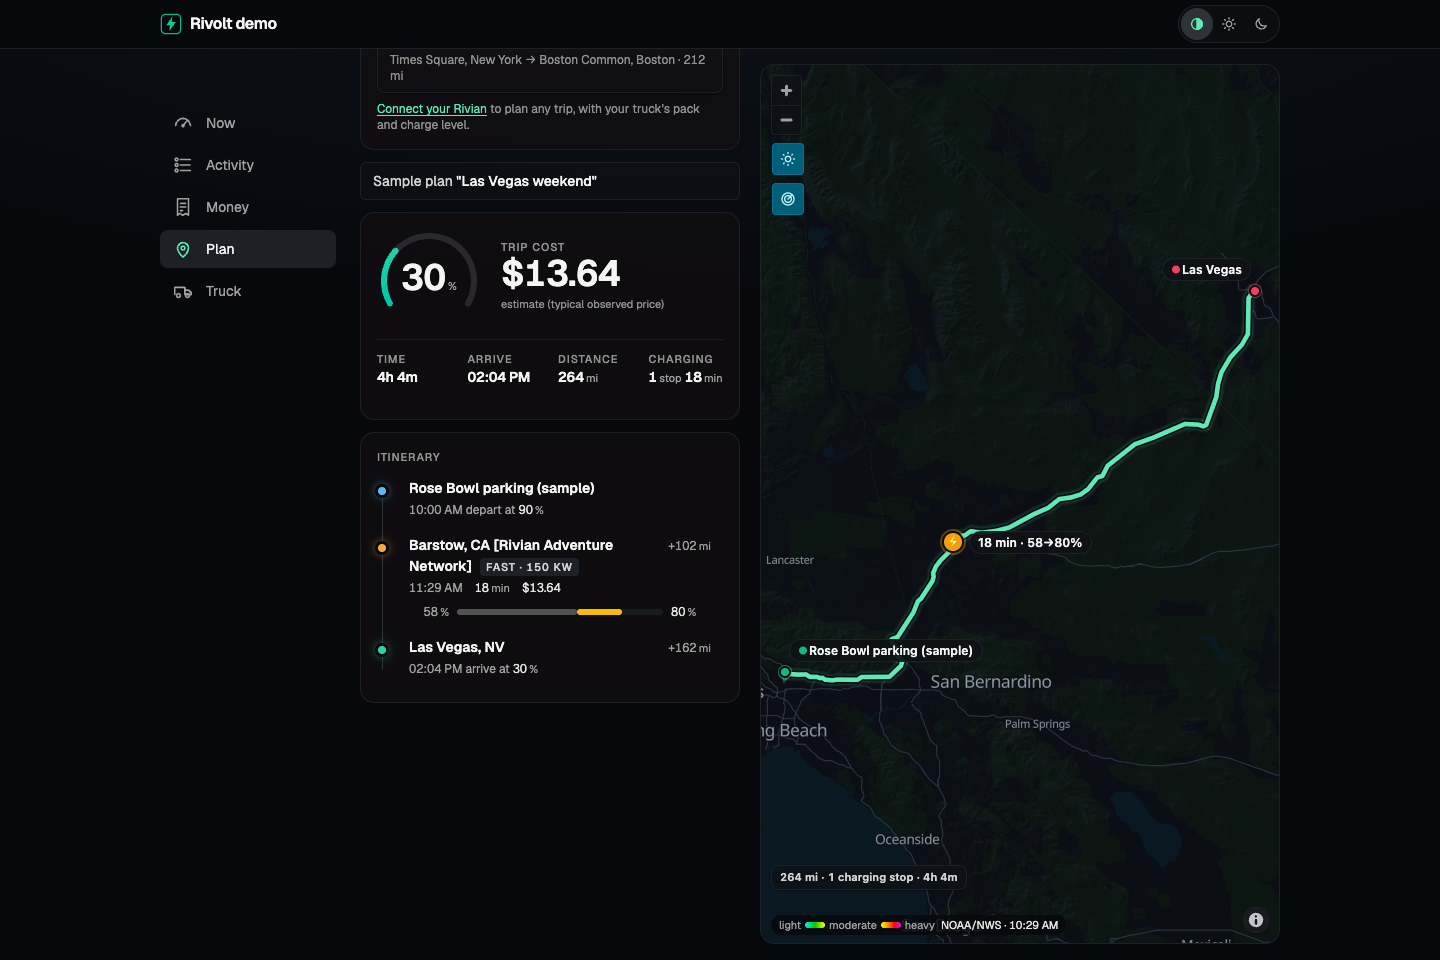
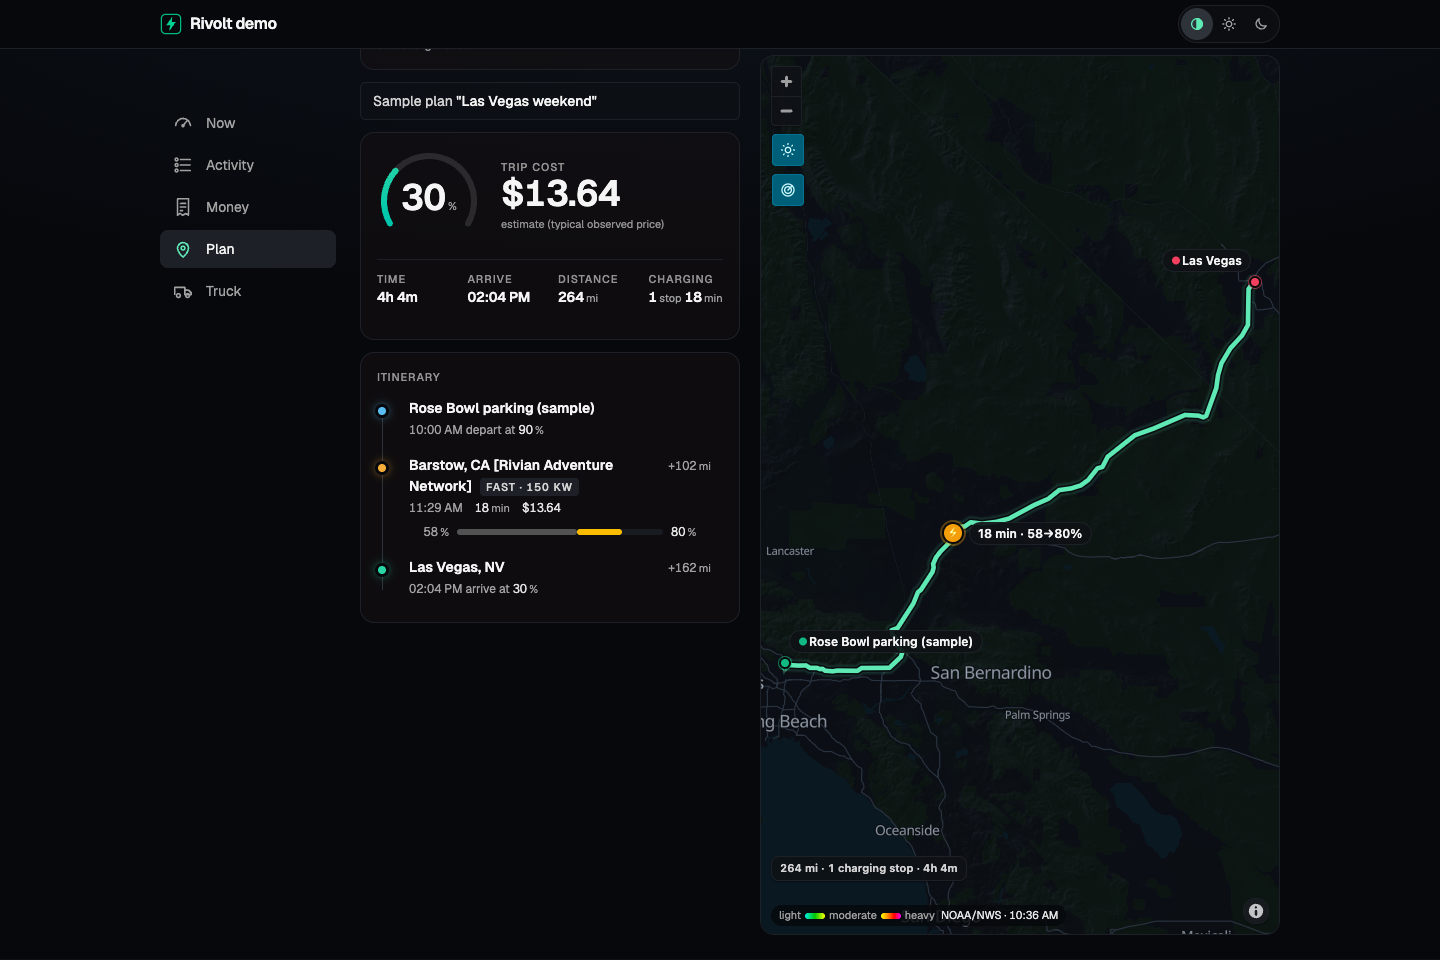
README: retake tires, drain and plan shots without the tab bar or cut-off cards

diff --git a/README.md b/README.md
@@ -144,7 +144,7 @@ signed-in account, so it is not on the demo.
   "Preconditioning". It disappears when the data is stale, so an old
   "Pet mode on" is never read as current.
 
-<img src="docs/screenshots/now-comfort.png" width="390" alt="The Now card parked, on the demo's sample truck: battery arc and range, the parked map with the weather, and the cabin temperature, 49 degrees Fahrenheit">
+<img src="docs/screenshots/now-comfort.png" width="390" alt="The Now card plugged in, on the demo's sample truck: battery arc and range, the parked map with the weather, and the cabin temperature, 49 degrees Fahrenheit">
 
 ### Activity — every drive and charge
 
